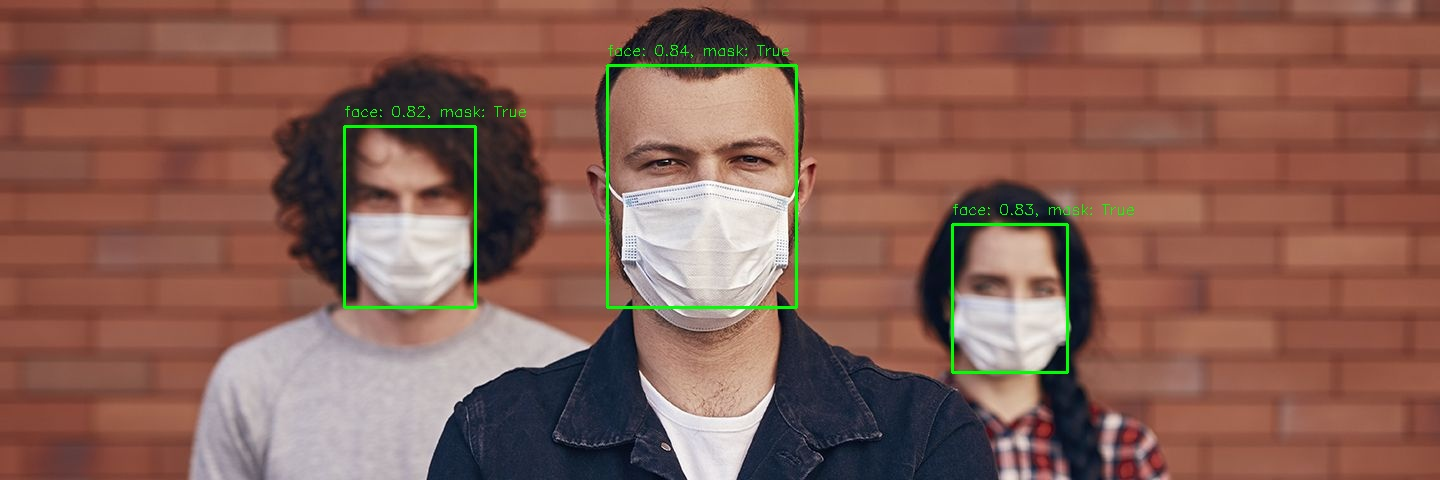
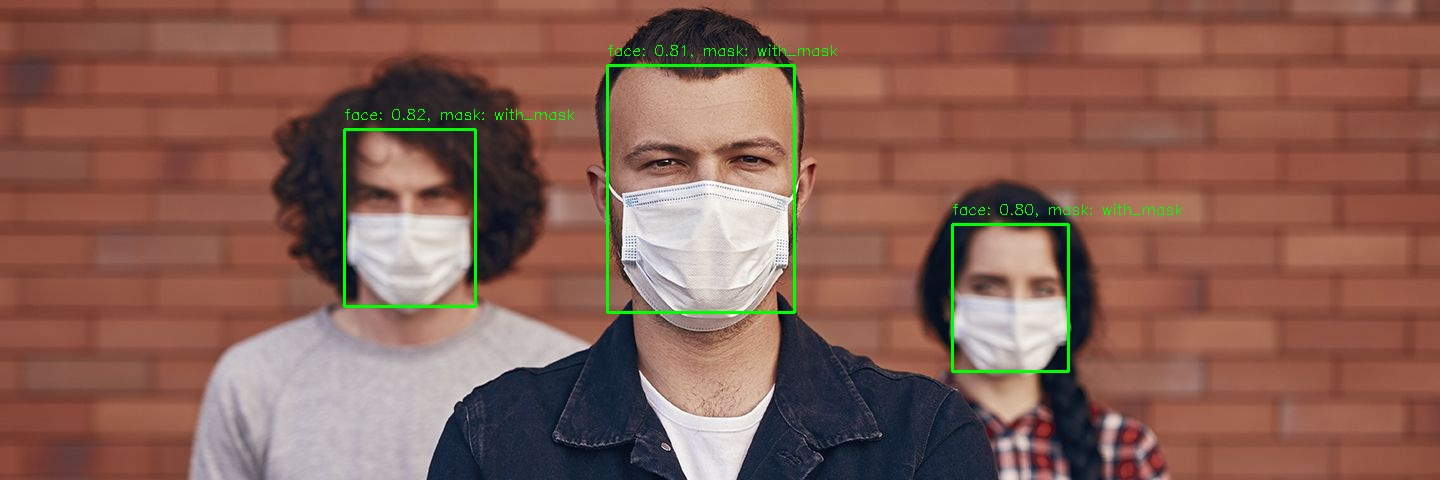
Совместил модели, теперь они нормально работают вместе. Чуть-чуть поклинапил

diff --git a/src/classification/mask_classifier.py b/src/classification/mask_classifier.py
@@ -4,8 +4,12 @@ import numpy as np
 import torch
 import torch.nn as nn
 import torch.nn.functional as F
+from PIL import Image
 
 from tqdm import tqdm
+
+from src.dataset_loader import basic_transformer
+
 
 #TODO: Размножить датасет зашумлением данных
 
@@ -38,6 +42,36 @@ class MaskClassifier(nn.Module):
         x = x.view(x.size(0), -1)
         x = self.classifier(x)
         return x
+
+    @property
+    def device(self):
+        return next(self.parameters()).device
+
+    def predict_mask(self, image: np.ndarray):
+        """
+        Предсказывает, есть ли маска на изображении
+
+        Аргументы:
+            image (np.ndarray): Изображение в формате RGB
+
+        Возвращает:
+            int: 0:"with_mask", 1:"without_mask" или 2:"mask_incorrect"
+        """
+        self.eval()
+
+        transform = basic_transformer()
+
+        image_tensor = transform(Image.fromarray(image)).unsqueeze(0).to(self.device)
+
+
+        with torch.no_grad():
+            output = self(image_tensor)
+            _, predicted = torch.max(output, 1)
+
+
+        #class_names = ['with_mask', 'without_mask', 'mask_incorrect']
+        #return class_names[predicted.item()]
+        return predicted.item()
 
 
 def train_epoch(model, dataloader, optimizer, criterion, device='cuda'):
@@ -86,6 +120,13 @@ def train_epoch(model, dataloader, optimizer, criterion, device='cuda'):
     print(f"Train Loss: {epoch_loss:.4f} | Train Acc: {epoch_acc:.2f}%")
     return epoch_loss
 
+def load_model(path, device):
+    model = MaskClassifier().to(device)
+    model.load_state_dict(torch.load(path)['model_state_dict'])
+    return model
+
+"""
+# Простой способ через проверку, заполнена ли 1/4 площади белым
 
 def classify_mask(face_roi, brightness_threshold=200, saturation_threshold=30):
     hsv = cv2.cvtColor(face_roi, cv2.COLOR_BGR2HSV)
@@ -102,3 +143,4 @@ def classify_mask(face_roi, brightness_threshold=200, saturation_threshold=30):
     white_pixels = cv2.countNonZero(white_mask)
     total_pixels = face_roi.shape[0] * face_roi.shape[1]
     return (white_pixels / total_pixels) > 0.25
+"""

diff --git a/test/mask_classifier_prediction_test.py b/test/mask_classifier_prediction_test.py
@@ -1,22 +1,16 @@
-import os
-
+import cv2
 import torch
-from torchvision import transforms
-
 from PIL import Image
 
-from src.classification.mask_classifier import MaskClassifier
+from src.classification.mask_classifier import MaskClassifier, load_model
+from src.dataset_loader import basic_transformer
 
 
-def load_model(path, device):
-    checkpoint = torch.load(path)
-    model = MaskClassifier().to(device)
-    model.load_state_dict(torch.load(path))
-    return model
 
 
-def predict_mask(image_path, model_path, device='cuda'):
-    """
+"""
+def predict_mask(image_path, classifier, device='cuda'):
+    ""
     Предсказывает, есть ли маска на изображении
 
     Аргументы:
@@ -26,30 +20,27 @@ def predict_mask(image_path, model_path, device='cuda'):
 
     Возвращает:
         str: "with_mask", "without_mask" или "mask_incorrect"
-    """
-    model = load_model(model_path, device)
-    model.eval()
+    ""
+    classifier.eval()
 
-    transform = transforms.Compose([
-        transforms.Resize((128, 128)),
-        transforms.ToTensor(),
-        transforms.Normalize(mean=[0.485, 0.456, 0.406], std=[0.229, 0.224, 0.225])
-    ])
+    transform = basic_transformer()
 
     image = Image.open(image_path).convert('RGB')
     image_tensor = transform(image).unsqueeze(0).to(device)
 
 
     with torch.no_grad():
-        output = model(image_tensor)
+        output = classifier(image_tensor)
         _, predicted = torch.max(output, 1)
 
 
     class_names = ['with_mask', 'without_mask', 'mask_incorrect']
     return class_names[predicted.item()]
+"""
 
 device = 'cuda' if torch.cuda.is_available() else 'cpu'
-model_path = '../models/epoch_1.pth'
-classname = predict_mask('../data/Dataset/without_mask/2.png', model_path, device)
+model_path = '../models/best_model.pth'
+model = load_model(model_path, device)
+classname = model.predict_mask(cv2.cvtColor(cv2.imread('../data/val/with_mask/2.png'), cv2.COLOR_BGR2RGB))
 print(classname)
 

diff --git a/main.py b/main.py
@@ -1,25 +1,41 @@
 import cv2
 import numpy as np
+import torch
 from ultralytics import YOLO
 
-from src.classification.mask_classifier import classify_mask
+from src.classification.mask_classifier import load_model
+from src.classification.utils import stretch_resize
 from src.detection.detector import detect_faces
 
-model = YOLO('./models/yolov8n-face.pt')
+
+
+detector = YOLO('./models/yolov8n-face.pt')
+
+device = 'cuda' if torch.cuda.is_available() else 'cpu'
+model_path = './models/best_model.pth'
+classifier = load_model(model_path, device)
 
 
 def process_image(image: np.ndarray):
-    faces = detect_faces(model, image, 0.5)
+    faces = detect_faces(detector, image, 0.5)
     for box in faces.boxes:
         x1, y1, x2, y2 = map(int, box.xyxy[0])
+
+        status = {
+            0: "with_mask",
+            1: "without_mask",
+            2: "mask_incorrect"
+        }
+        mask = classifier.predict_mask(stretch_resize(image[y1:y2, x1:x2]))
+
         cv2.rectangle(image, (x1, y1), (x2, y2), (0, 255, 0), 2)
-        cv2.putText(image, f'face: {box.conf[0]:.2f}, mask: {classify_mask(image[y1:y2, x1:x2])}', (x1, y1 - 10),
+        cv2.putText(image, f'face: {box.conf[0]:.2f}, mask: {status[mask]}', (x1, y1 - 10),
                     cv2.FONT_HERSHEY_SIMPLEX, 0.5, (0, 255, 0), 1)
     return image
 
-test_name = 'test_tolpa.jpg'
+test_name = 'test_hospital.png'
 image = cv2.imread(f'./data/input/{test_name}')
 
-process_image(image)
-cv2.imwrite(f'./data/output/{test_name}', image)
+image = process_image(cv2.cvtColor(image, cv2.COLOR_BGR2RGB))
+cv2.imwrite(f'./data/output/{test_name}', cv2.cvtColor(image, cv2.COLOR_RGB2BGR))
 print('Детекция завершена!')

diff --git a/src/classification/train_mask_classifer.py b/src/classification/train_mask_classifer.py
@@ -84,13 +84,3 @@ for epoch in range(num_epochs):
 
     torch.save(model.state_dict(), os.path.join(save_dir, f'epoch_{epoch}.pth'))
 
-
-# 5. Загрузка лучшей модели (пример)
-def load_best_model():
-    checkpoint = torch.load(os.path.join(save_dir, 'best_model.pth'))
-    model = MaskClassifier().to(device)
-    model.load_state_dict(checkpoint['model_state_dict'])
-    return model
-
-
-#best_model = load_best_model()

diff --git a/README.md b/README.md
@@ -37,4 +37,6 @@ MaskRecognition/
 - face roi для классификации: https://www.kaggle.com/datasets/vijaykumar1799/face-mask-detection
 - Думаю попробовать https://www.kaggle.com/datasets/andrewmvd/face-mask-detection 
 
- 
+
+### Пример результата работы программы:
+ ![test_hospital.png](data/output/test_hospital.png)
